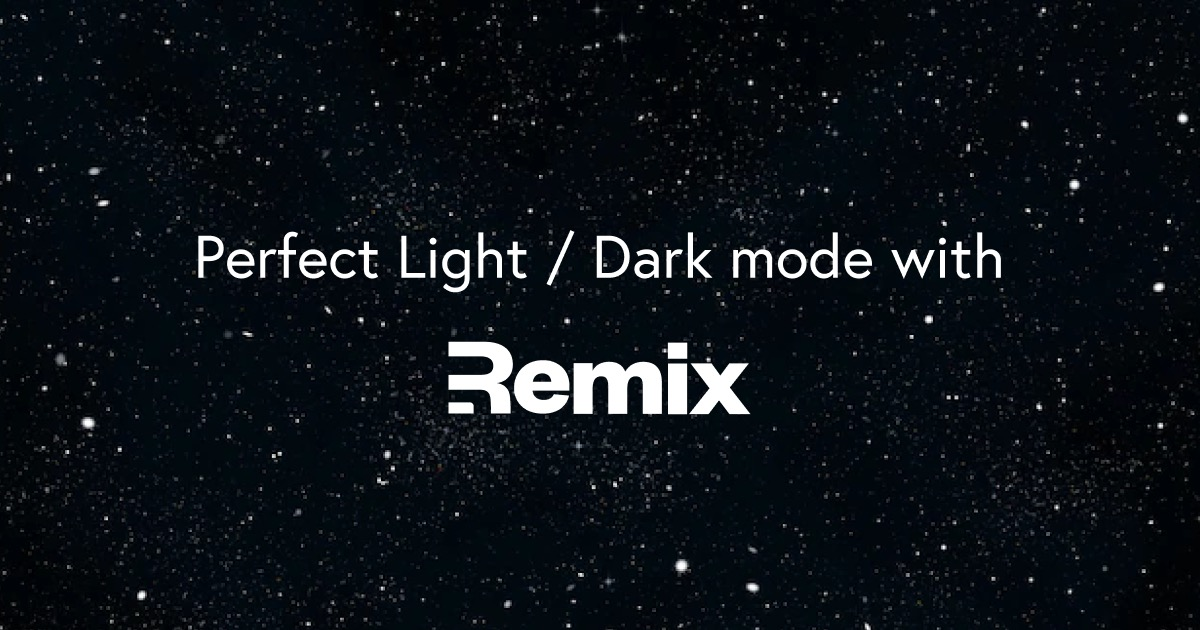
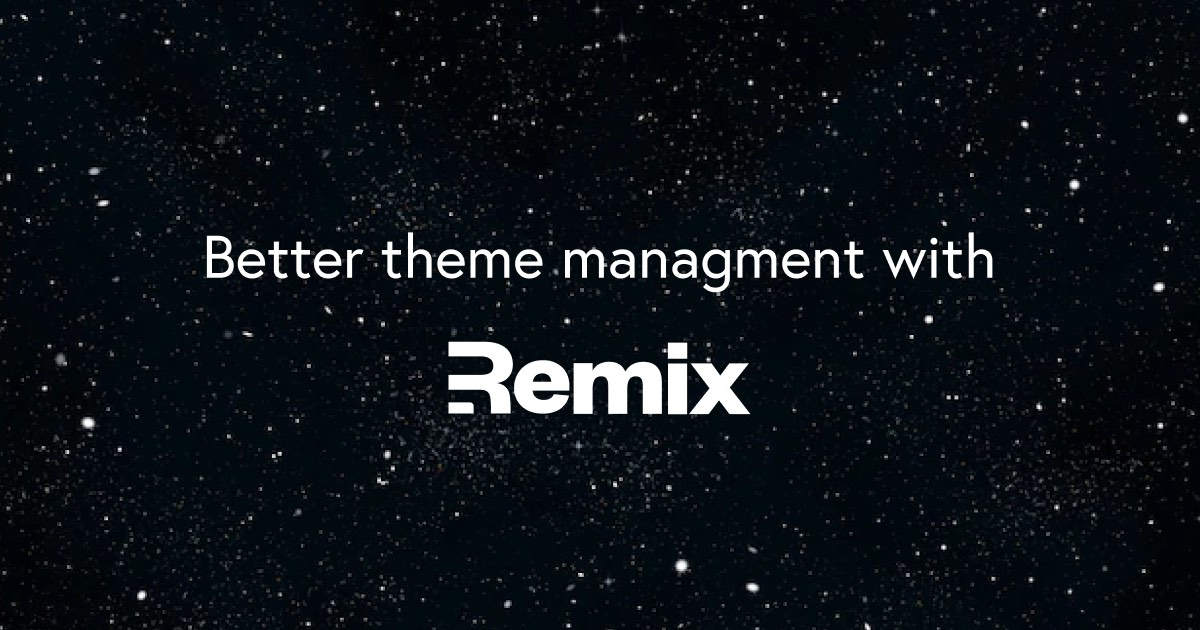
moar title stuff

Changed region(s): [[0.1542, 0.3619, 0.8325, 0.4825]]

diff --git a/app/routes/index.tsx b/app/routes/index.tsx
@@ -55,7 +55,7 @@ export default function Index() {
         <Link href="https://remix.run/">Remix</Link> app with light, dark, and
         custom themes.
       </p>
-      <Link href="https://github.com/HovaLabs/remix-theme-management/">
+      <Link href="https://github.com/HovaLabs/better-theme-management-with-remix/">
         Check out the code on Github
       </Link>
       <h1>Our requirements</h1>
@@ -348,13 +348,13 @@ export default function App() {
       <h1>That's it</h1>
       <p>
         Hope you enjoyed this post. Please check out{" "}
-        <Link href="https://github.com/hovalabs/remix-theme-management">
+        <Link href="https://github.com/hovalabs/better-theme-management-with-remix">
           the actual code
         </Link>
         , as I believe it provides a much more realistic context. If there's a
         way we can improve the example or supporting notes, we'd love your
         feedback.{" "}
-        <Link href="https://github.com/HovaLabs/remix-theme-management/issues/new">
+        <Link href="https://github.com/HovaLabs/better-theme-management-with-remix/issues/new">
           We're open to PR's.
         </Link>
       </p>

diff --git a/README.md b/README.md
@@ -1,6 +1,6 @@
-# Remix theme management
+# Better theme management with Remix
 
-Check out an explanation of the code and the live site [here](https://remix-theme-management.netlify.app/).
+Check out an explanation of the code and the live site [here](https://better-theme-management-with-remix.netlify.app/).
 
 This repo is a minimal example of how to set up a [Remix](https://remix.run/) app with light/dark/custom themes.
 
